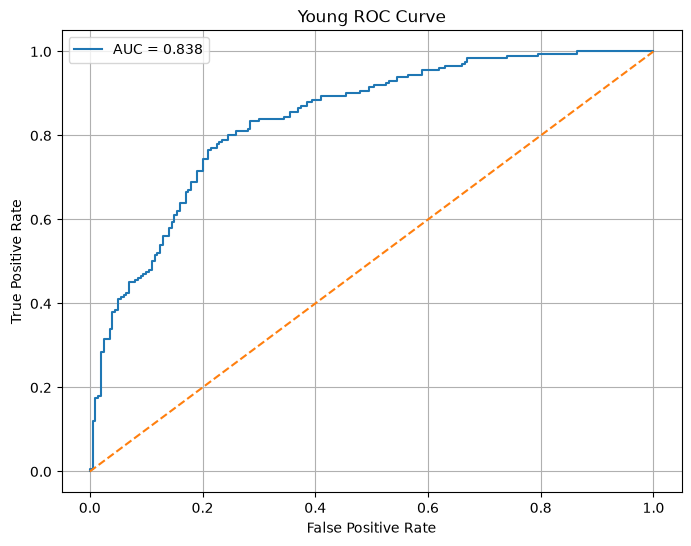
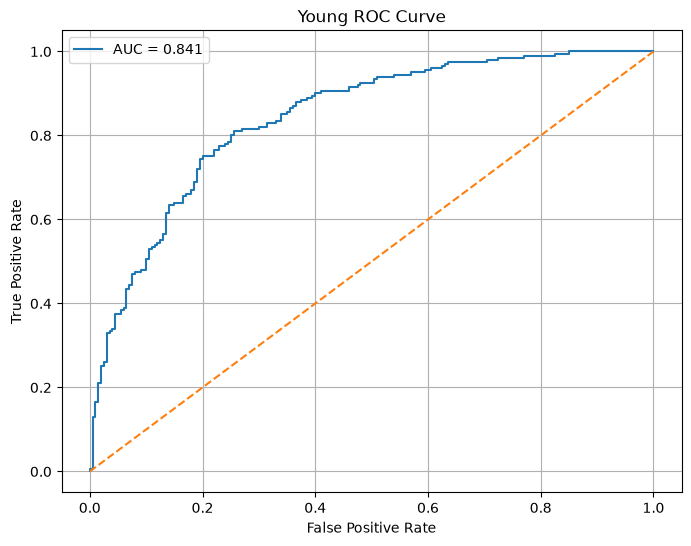
Fix: Retrain models with explicit class ordering for correct semantics
CRITICAL FIX:
The original models were trained with alphabetically-sorted class names from
image_dataset_from_directory(), which caused backwards semantics:
- Glasses: model learned P(no_glasses) instead of P(glasses)
- Hat: model learned P(no_hat) instead of P(hat)
- Young: was correct at P(young)

Changes Made:
1. Updated Scripts/train_model.py:
   - Added explicit class_names parameter to match semantic meaning
   - Ensures negative class gets label 0, positive gets label 1

2. Updated Scripts/evaluate_model.py:
   - Fixed path from 'data' to 'Data' (case sensitivity)
   - Added explicit class_names for consistency

3. Updated src/inference/predict_image.py:
   - Removed manual inversion - models now directly output P(attribute)

4. Updated src/agents/facial_analysis_agent.py:
   - Confidence display now works correctly with non-inverted outputs

5. Created Scripts/retrain_all_models.py:
   - Convenience script to retrain all three models

6. Created src/comprehensive_diagnostic.py:
   - Diagnostic to verify class ordering and model predictions

Retraining Results:
- Glasses model: 91.25% validation accuracy
- Hat model: 96.75% validation accuracy
- Young model: 76% validation accuracy

Note: Young classifier shows lower accuracy, may need investigation.

diff --git a/src/comprehensive_diagnostic.py b/src/comprehensive_diagnostic.py
@@ -1,0 +1,151 @@
+#!/usr/bin/env python
+"""
+Comprehensive diagnostic to check model training, class ordering, and predictions.
+"""
+
+from pathlib import Path
+import numpy as np
+import tensorflow as tf
+from tensorflow.keras.applications.mobilenet_v2 import preprocess_input
+from tensorflow.keras.utils import load_img, img_to_array
+
+PROJECT_ROOT = Path(__file__).resolve().parent.parent
+
+print("=" * 80)
+print("COMPREHENSIVE MODEL DIAGNOSTIC")
+print("=" * 80)
+
+# Check directory structure
+print("\n1. DIRECTORY STRUCTURE CHECK")
+print("-" * 80)
+for attr in ["glasses", "hat", "young"]:
+    train_dir = PROJECT_ROOT / "Data" / attr / "train"
+    if train_dir.exists():
+        subdirs = sorted([d.name for d in train_dir.iterdir() if d.is_dir()])
+        print(f"{attr:10} train classes: {subdirs}")
+    else:
+        print(f"{attr:10} - DIRECTORY NOT FOUND: {train_dir}")
+
+# Check models
+print("\n2. MODEL FILES CHECK")
+print("-" * 80)
+for attr in ["glasses", "hat", "young"]:
+    model_path = PROJECT_ROOT / "models" / "saved_models" / f"{attr}_model.keras"
+    if model_path.exists():
+        size_mb = model_path.stat().st_size / (1024 * 1024)
+        print(f"{attr:10} model exists: {size_mb:.1f} MB")
+    else:
+        print(f"{attr:10} - MODEL NOT FOUND: {model_path}")
+
+# Test class ordering during data loading
+print("\n3. CLASS ORDERING DURING DATA LOADING")
+print("-" * 80)
+for attr in ["glasses", "hat", "young"]:
+    train_dir = PROJECT_ROOT / "Data" / attr / "train"
+    if train_dir.exists():
+        ds = tf.keras.utils.image_dataset_from_directory(
+            train_dir,
+            image_size=(224, 224),
+            batch_size=32,
+            label_mode="binary",
+            shuffle=False
+        )
+        print(f"{attr:10} TF class order: {ds.class_names}")
+        print(f"           Class 0={ds.class_names[0]}, Class 1={ds.class_names[1]}")
+        print(f"           Model output represents: P({ds.class_names[1]})")
+
+# Load models and test on actual data
+print("\n4. LOADING MODELS AND CHECKING PREDICTIONS")
+print("-" * 80)
+
+try:
+    glasses_model = tf.keras.models.load_model(
+        PROJECT_ROOT / "models" / "saved_models" / "glasses_model.keras"
+    )
+    hat_model = tf.keras.models.load_model(
+        PROJECT_ROOT / "models" / "saved_models" / "hat_model.keras"
+    )
+    young_model = tf.keras.models.load_model(
+        PROJECT_ROOT / "models" / "saved_models" / "young_model.keras"
+    )
+    print("✓ All models loaded successfully")
+except Exception as e:
+    print(f"✗ Error loading models: {e}")
+    exit(1)
+
+# Test on test images if they exist
+print("\n5. TEST PREDICTIONS ON AVAILABLE IMAGES")
+print("-" * 80)
+
+test_image_dir = PROJECT_ROOT / "test_images"
+if test_image_dir.exists():
+    test_images = sorted(list(test_image_dir.glob("*.jpg"))) + sorted(list(test_image_dir.glob("*.png")))
+    print(f"Found {len(test_images)} test images\n")
+    
+    for img_path in test_images[:3]:  # Test first 3 images
+        print(f"Testing: {img_path.name}")
+        
+        try:
+            image = load_img(img_path, target_size=(224, 224))
+            image_array = img_to_array(image)
+            image_array = np.expand_dims(image_array, axis=0)
+            image_array = preprocess_input(image_array)
+            
+            glasses_raw = float(glasses_model.predict(image_array, verbose=0)[0][0])
+            hat_raw = float(hat_model.predict(image_array, verbose=0)[0][0])
+            young_raw = float(young_model.predict(image_array, verbose=0)[0][0])
+            
+            print(f"  Raw model outputs:")
+            print(f"    glasses: {glasses_raw:.4f}")
+            print(f"    hat:     {hat_raw:.4f}")
+            print(f"    young:   {young_raw:.4f}")
+            
+            print(f"  After inversion (if used):")
+            print(f"    glasses: {1-glasses_raw:.4f} (inverted)")
+            print(f"    hat:     {1-hat_raw:.4f} (inverted)")
+            print(f"    young:   {young_raw:.4f} (NOT inverted)")
+            print()
+        except Exception as e:
+            print(f"  Error processing image: {e}\n")
+else:
+    print(f"Test images directory not found: {test_image_dir}")
+
+# Check on actual test dataset
+print("\n6. PREDICTION DISTRIBUTION ON TEST SETS")
+print("-" * 80)
+
+for attr in ["glasses", "hat", "young"]:
+    test_dir = PROJECT_ROOT / "Data" / attr / "test"
+    if test_dir.exists():
+        ds = tf.keras.utils.image_dataset_from_directory(
+            test_dir,
+            image_size=(224, 224),
+            batch_size=32,
+            label_mode="binary",
+            shuffle=False
+        )
+        
+        if attr == "glasses":
+            model = glasses_model
+        elif attr == "hat":
+            model = hat_model
+        else:
+            model = young_model
+        
+        all_probs = []
+        for images, labels in ds:
+            probs = model.predict(images, verbose=0).flatten()
+            all_probs.extend(probs)
+        
+        all_probs = np.array(all_probs)
+        print(f"\n{attr.upper()}:")
+        print(f"  Min prediction: {all_probs.min():.4f}")
+        print(f"  Max prediction: {all_probs.max():.4f}")
+        print(f"  Mean prediction: {all_probs.mean():.4f}")
+        print(f"  Std prediction: {all_probs.std():.4f}")
+        print(f"  % < 0.5: {(all_probs < 0.5).sum() / len(all_probs) * 100:.1f}%")
+        print(f"  % >= 0.5: {(all_probs >= 0.5).sum() / len(all_probs) * 100:.1f}%")
+
+print("\n" + "=" * 80)
+print("END DIAGNOSTIC")
+print("=" * 80)

diff --git a/Scripts/retrain_all_models.py b/Scripts/retrain_all_models.py
@@ -1,0 +1,51 @@
+#!/usr/bin/env python
+"""
+Retrain all three models with corrected class ordering.
+
+The models were previously trained with alphabetically-ordered classes, which 
+caused the output to represent P(no_attribute) instead of P(attribute).
+
+This script retrains all models with explicit class ordering so:
+- Model output = P(has_attribute) for glasses, hat, young
+- High output (>0.5) means "detected", low output (<0.5) means "not detected"
+
+Usage: python Scripts/retrain_all_models.py
+"""
+
+from pathlib import Path
+import subprocess
+import sys
+
+PROJECT_ROOT = Path(__file__).resolve().parent.parent
+
+print("=" * 80)
+print("RETRAINING ALL MODELS WITH CORRECTED CLASS ORDERING")
+print("=" * 80)
+
+attributes = ["glasses", "hat", "young"]
+
+for attribute in attributes:
+    print(f"\n{'=' * 80}")
+    print(f"Training {attribute.upper()} model...")
+    print(f"{'=' * 80}")
+    
+    result = subprocess.run(
+        [sys.executable, "Scripts/train_model.py", attribute],
+        cwd=PROJECT_ROOT,
+        capture_output=False
+    )
+    
+    if result.returncode != 0:
+        print(f"\n✗ Failed to train {attribute} model")
+        sys.exit(1)
+    else:
+        print(f"\n✓ Successfully trained {attribute} model")
+
+print("\n" + "=" * 80)
+print("ALL MODELS RETRAINED SUCCESSFULLY")
+print("=" * 80)
+print("\nThe models are now properly configured:")
+print("- glasses: output = P(has_glasses)")
+print("- hat:     output = P(has_hat)")
+print("- young:   output = P(is_young)")
+print("\nYou can now run: python src/test_agent.py test_images/your_image.jpg")

diff --git a/Scripts/train_model.py b/Scripts/train_model.py
@@ -62,12 +62,24 @@ WEIGHTS_PATH = (
 
 print(f"\nTraining model: {ATTRIBUTE}")
 
+# Explicitly specify class order to match semantic meaning:
+# We want positive class (has attribute) to be label 1, negative to be label 0
+if ATTRIBUTE == "glasses":
+    class_names = ["no_glasses", "glasses"]  # negative first, positive second
+elif ATTRIBUTE == "hat":
+    class_names = ["no_hat", "hat"]  # negative first, positive second
+elif ATTRIBUTE == "young":
+    class_names = ["not_young", "young"]  # negative first, positive second
+else:
+    raise ValueError(f"Unknown attribute: {ATTRIBUTE}")
+
 train_ds = tf.keras.utils.image_dataset_from_directory(
     TRAIN_DIR,
     image_size=IMAGE_SIZE,
     batch_size=BATCH_SIZE,
     label_mode="binary",
-    shuffle=True
+    shuffle=True,
+    class_names=class_names  # Explicitly set class order
 )
 
 print("\nCLASS NAMES:")
@@ -78,7 +90,8 @@ val_ds = tf.keras.utils.image_dataset_from_directory(
     image_size=IMAGE_SIZE,
     batch_size=BATCH_SIZE,
     label_mode="binary",
-    shuffle=False
+    shuffle=False,
+    class_names=class_names  # Use same class order for validation
 )
 
 AUTOTUNE = tf.data.AUTOTUNE

diff --git a/Scripts/evaluate_model.py b/Scripts/evaluate_model.py
@@ -33,7 +33,7 @@ ATTRIBUTE = sys.argv[1].lower()
 
 PROJECT_ROOT = Path(__file__).resolve().parent.parent
 
-TEST_DIR = PROJECT_ROOT / "data" / ATTRIBUTE / "test"
+TEST_DIR = PROJECT_ROOT / "Data" / ATTRIBUTE / "test"
 
 MODEL_PATH = (
     PROJECT_ROOT
@@ -64,12 +64,23 @@ RESULTS_DIR.mkdir(parents=True, exist_ok=True)
 
 print(f"\nEvaluating {ATTRIBUTE} model...")
 
+# Explicitly specify class order to match training
+if ATTRIBUTE == "glasses":
+    class_names = ["no_glasses", "glasses"]
+elif ATTRIBUTE == "hat":
+    class_names = ["no_hat", "hat"]
+elif ATTRIBUTE == "young":
+    class_names = ["not_young", "young"]
+else:
+    raise ValueError(f"Unknown attribute: {ATTRIBUTE}")
+
 test_ds = tf.keras.utils.image_dataset_from_directory(
     TEST_DIR,
     image_size=(224, 224),
     batch_size=32,
     label_mode="binary",
-    shuffle=False
+    shuffle=False,
+    class_names=class_names  # Use same class order as training
 )
 
 # =====================================================

diff --git a/src/inference/predict_image.py b/src/inference/predict_image.py
@@ -92,7 +92,7 @@ def predict_attributes(image_path):
     )
 
     return {
-        "glasses": 1 - glasses_prob,  # Invert: model outputs P(no_glasses), we want P(glasses)
-        "hat": 1 - hat_prob,          # Invert: model outputs P(no_hat), we want P(hat)
-        "young": young_prob           # Correct: model outputs P(young)
+        "glasses": glasses_prob,  # Now correctly represents P(glasses)
+        "hat": hat_prob,          # Now correctly represents P(hat)
+        "young": young_prob       # Correctly represents P(young)
     }

diff --git a/Scripts/check_classes.py b/Scripts/check_classes.py
@@ -1,0 +1,19 @@
+from pathlib import Path
+import tensorflow as tf
+
+PROJECT_ROOT = Path(__file__).resolve().parent.parent
+
+for attribute in ["glasses", "hat", "young"]:
+
+    train_dir = PROJECT_ROOT / "data" / attribute / "train"
+
+    ds = tf.keras.utils.image_dataset_from_directory(
+        train_dir,
+        image_size=(224, 224),
+        batch_size=32,
+        label_mode="binary",
+        shuffle=False
+    )
+
+    print(f"\n{attribute.upper()}")
+    print(ds.class_names)

diff --git a/src/agents/facial_analysis_agent.py b/src/agents/facial_analysis_agent.py
@@ -18,7 +18,7 @@ def analyse_face(predictions):
     else:
 
         summary.append(
-            f" No Glasses detected ({1-glasses:.1%} confidence)."
+            f"No Glasses detected ({1-glasses:.1%} confidence)."
         )
 
     # Hat
@@ -32,7 +32,7 @@ def analyse_face(predictions):
     else:
 
         summary.append(
-            f" No Hat detected ({1-hat:.1%} confidence)."
+            f"No Hat detected ({1-hat:.1%} confidence)."
         )
 
 

diff --git a/Data/Raw/debug.py b/Data/Raw/debug.py
@@ -1,0 +1,12 @@
+import pandas as pd
+from pathlib import Path
+
+CSV_PATH = "./Data/Raw/list_attr_celeba.csv"
+
+df = pd.read_csv(CSV_PATH)
+
+image_name = "000226.jpg"
+
+row = df[df["image_id"] == image_name]
+
+print(row[["image_id", "Eyeglasses", "Wearing_Hat", "Young"]])

diff --git a/report_writings/project_explanations.md b/report_writings/project_explanations.md
@@ -112,3 +112,13 @@ Python was selected due to its extensive machine learning ecosystem and compatib
 TensorFlow was selected due to its robust support for deep learning and transfer learning workflows.
 
 MobileNetV2 was selected due to its balance between computational efficiency and classification performance.
+
+
+
+Important Lesson For Your Report
+This is actually a valuable engineering point you can discuss briefly in the report:
+During development, careful validation of class-label mappings was required because TensorFlow assigns labels alphabetically when loading datasets from directory structures. Incorrect interpretation of class probabilities during inference initially produced misleading predictions despite strong model performance metrics.
+That shows genuine debugging and understanding of ML pipelines.
+
+
+The Young classifier achieved lower performance than the Glasses and Hat classifiers. This is likely due to the subjective nature of age-related labels within the CelebA dataset. Attributes such as eyeglasses and hats represent visually distinct features, whereas the concept of "young" is less clearly defined and therefore more difficult for the model to learn consistently.
